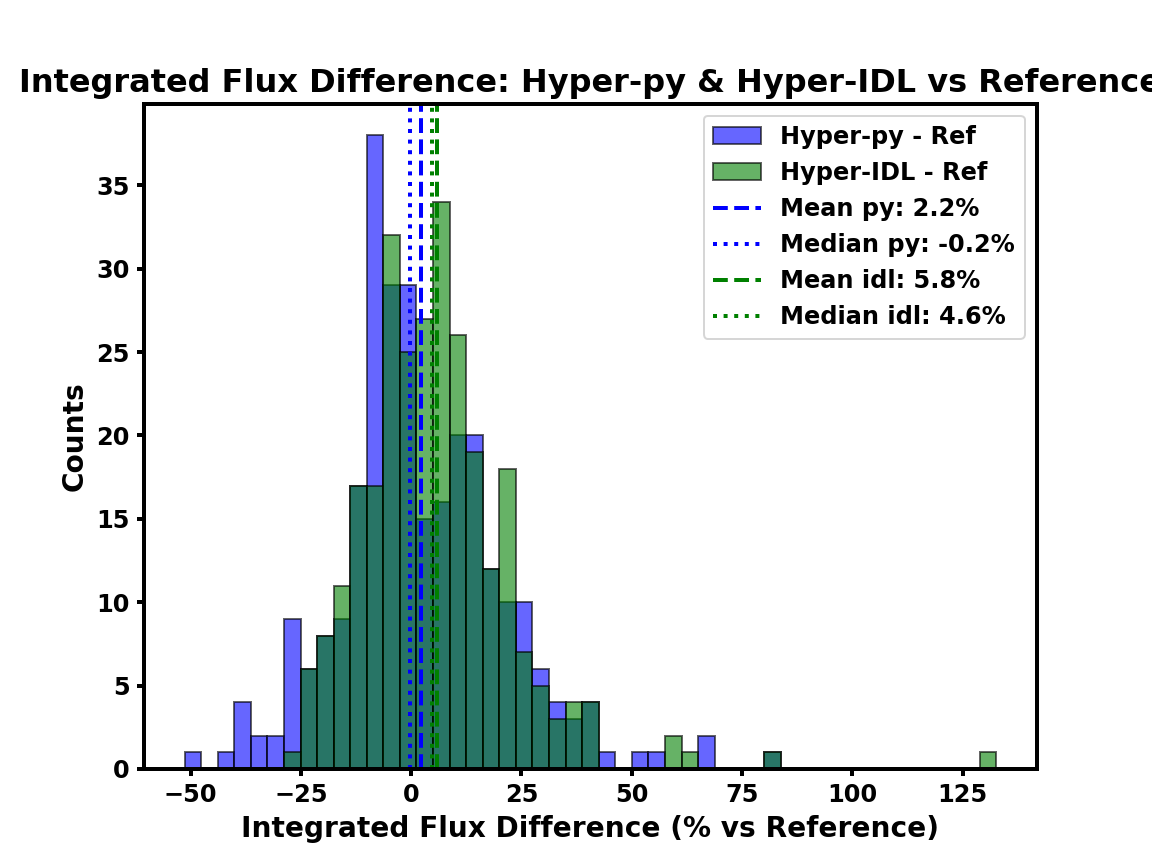
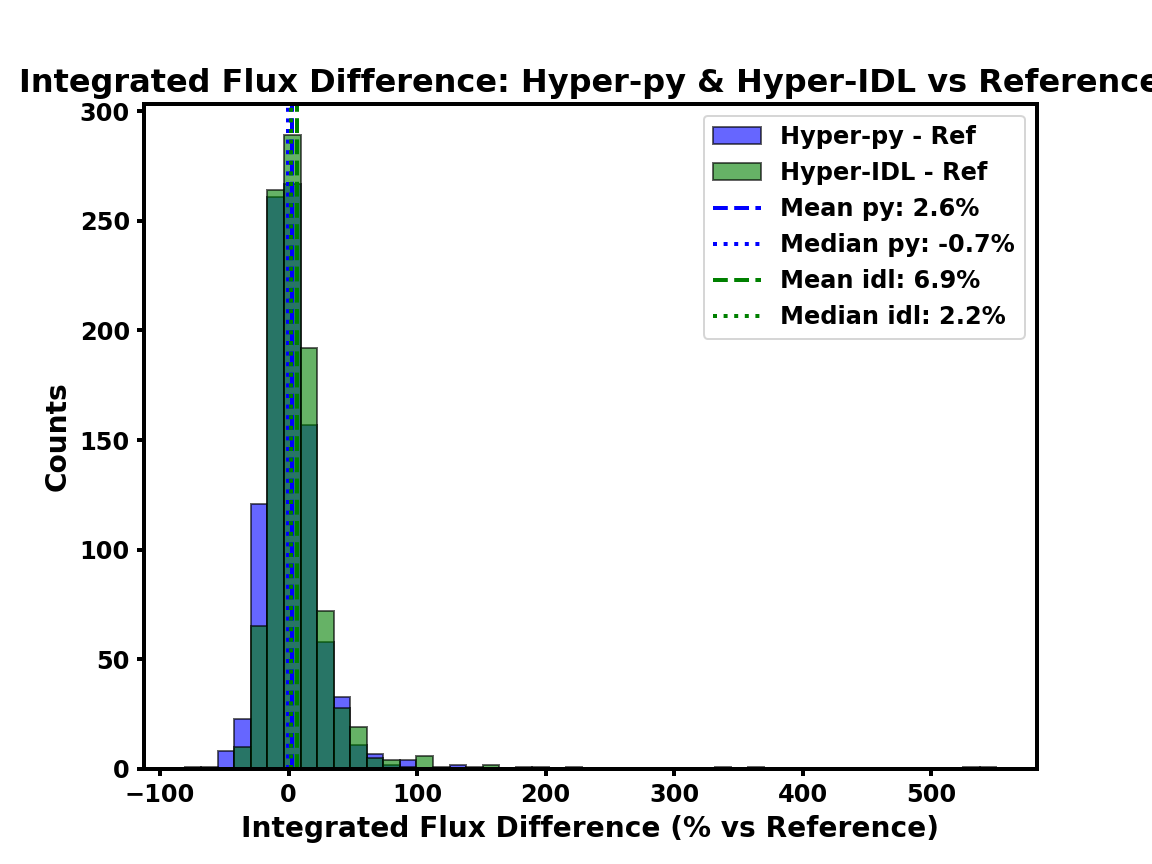
Paper revision

diff --git a/paper/Hyper-py_paper.md b/paper/Hyper-py_paper.md
@@ -51,7 +51,16 @@ Model selection criteria for background fitting. In *Hyper-Py*, the optimal back
 
 Improved user configurability: *Hyper-Py* is designed to be more user-friendly, featuring a clear and well-documented configuration file. This allows users to adapt the full photometric workflow to a wide range of observational conditions and scientific goals by modifying only a minimal set of parameters. The modular structure of the configuration also enhances transparency and reproducibility in all stages of the analysis.
  
-We assessed the performance of the *Hyper-Py* pipeline using a dedicated suite of simulations. Specifically, we adopted a noise-only map derived from the ALMA program #2022.1.0917.S and injected a variable background and 300 synthetic 2D Gaussian sources into it. These sources were designed to emulate the properties of real compact astronomical objects: integrated fluxes ranged between 10 and 20 times the map rms (corresponding to peak fluxes of approximately 1–1.5 times the rms), and FWHMs spanned from 0.5 to 1.5 times the beam size, as computed from the FITS header, to simulate both unresolved and moderately extended sources (e.g., @Elia21). The source position angles were randomly assigned, and a minimum overlap fraction of 30% was imposed to ensure a significant level of blending, thus providing a rigorous test of the code under realistic and challenging conditions.We then compared the performance of the original IDL implementation of HYPER with the new Python-based *Hyper-Py* version. Both codes were run using equivalent configurations, with *Hyper-Py* additionally benefiting from its extended capabilities—such as improved background estimation, optional L2 regularization, and multi-core parallel processing. The main results of this comparison are presented in Figure 1 and Figure 2, which show the differences between the peak and integrated fluxes of the sources as recovered by *Hyper-Py* and HYPER, respectively, with respect to the reference values of the simulated input sources.
+We assessed the performance of the *Hyper-Py* pipeline using a dedicated suite of simulations. Specifically, we adopted a noise-only map derived from the ALMA program #2022.1.0917.S and produced two maps with this reference header. In each of those maps we injected a variable background and 500 synthetic 2D Gaussian sources into it. These sources were designed to emulate the properties of real compact astronomical objects: integrated fluxes ranged between 8 and 20 times the map rms (corresponding to peak fluxes of approximately 1–1.5 times the rms), and FWHMs spanned from 0.5 to 1.5 times the beam size, as computed from the FITS header, to simulate both unresolved and moderately extended sources (e.g., @Elia21). The source position angles were randomly assigned, and a minimum overlap fraction of 30% was imposed to ensure a significant level of blending, thus providing a rigorous test of the code under realistic and challenging conditions.We then compared the performance of the original IDL implementation of HYPER with the new Python-based *Hyper-Py* version. Both codes were run using equivalent configurations, with *Hyper-Py* additionally benefiting from its extended capabilities—such as improved background estimation, optional L2 regularization, and multi-core parallel processing. The main results of this comparison are presented in **Table 1**, where we show the differences between the number of identified sources and the false positives by *Hyper-Py* and HYPER, respectively. 
+
+| Catalog | Source Type | Total | Matched | False | False Percentage |
+|--------:|:------------|------:|--------:|------:|------------------:|
+|       1 | Hyper-py    |   500 |     488 |     4 |          0.813%   |
+|       1 | HYPER (IDL)   |   500 |     493 |    73 |         12.898%   |
+|       2 | Hyper-py    |   500 |     479 |     4 |          0.828%   |
+|       2 | HYPER (IDL)   |   500 |     487 |    46 |          8.630%   |
+
+In addition, Figure 1 and Figure 2 show the differences between the peak fluxes and the integrated fluxes of the sources with respect to the reference values of the simulated input sources as estimated by *Hyper-Py* and HYPER, respectively.
 
 
 
